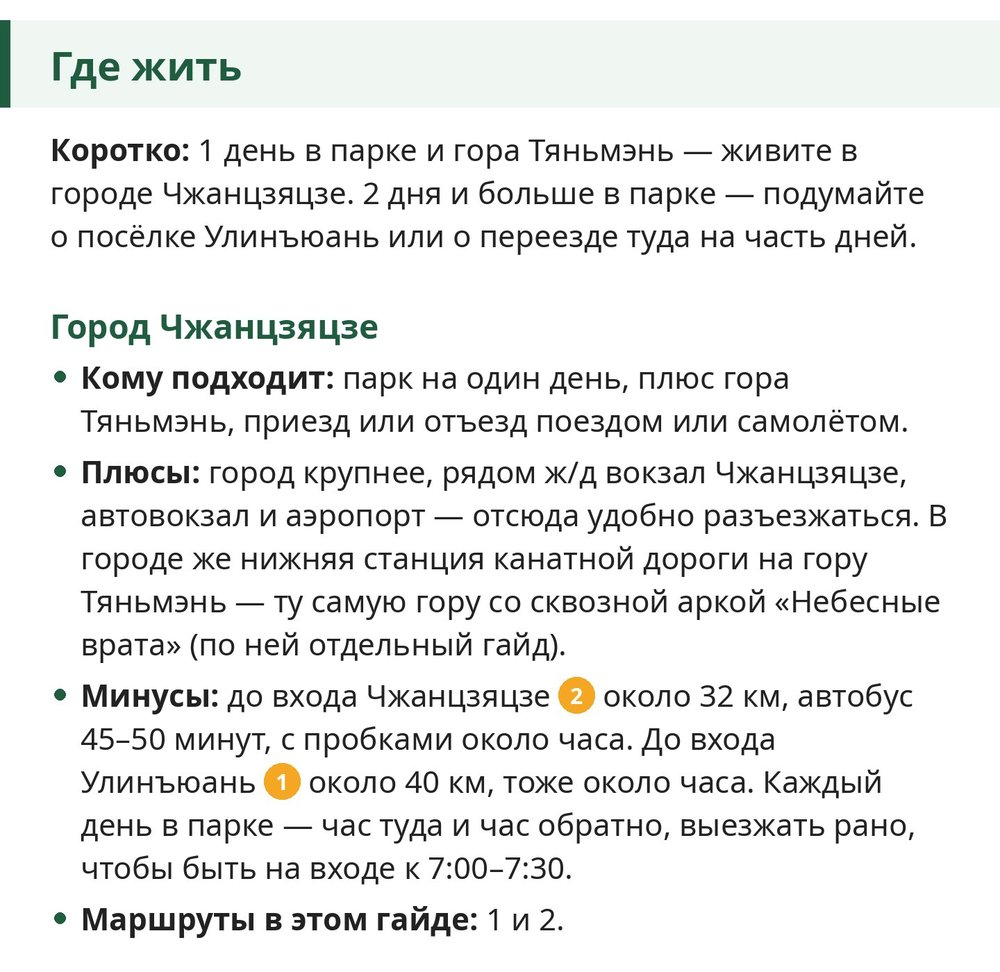
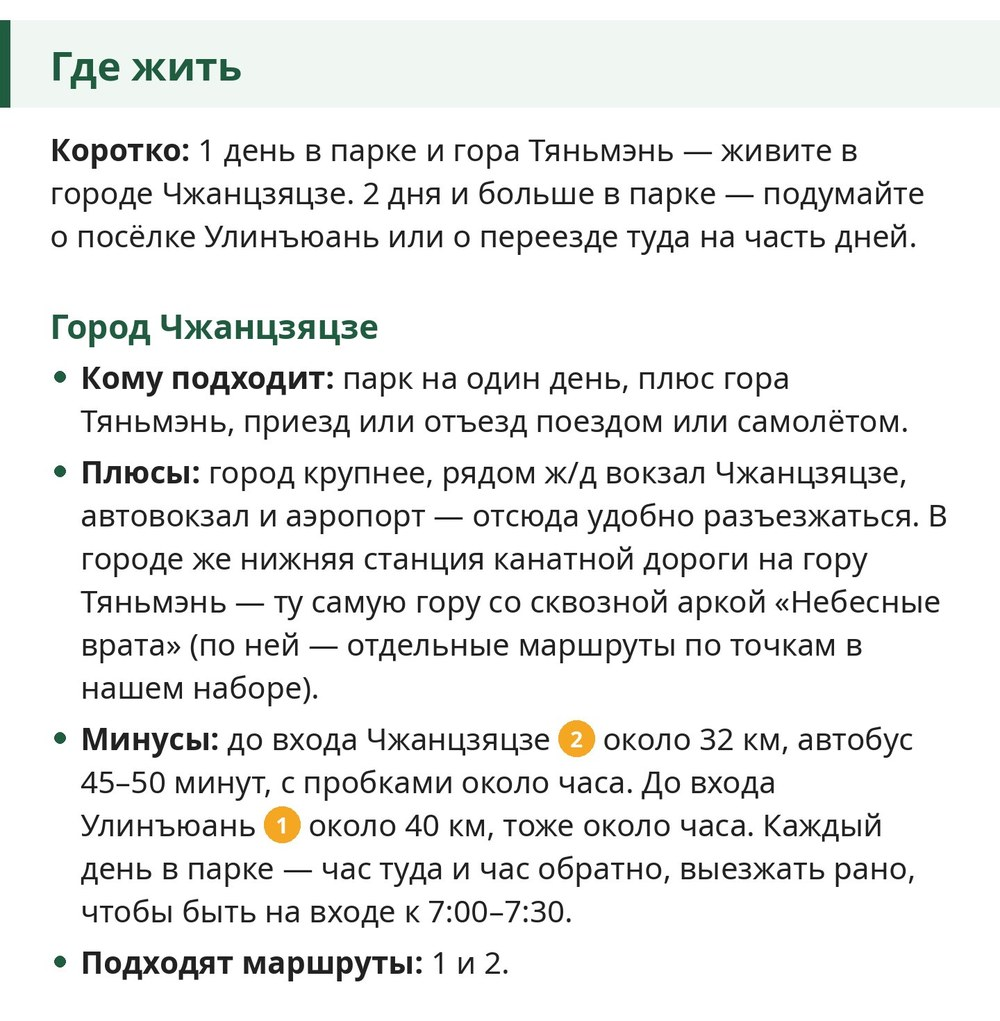
Набор: «гайды» → «маршруты по точкам» на русской странице; в «Новинке» прямо сказано, что карты переведены на русский (правка Сергея 01.11.2026); фрагмент маршрутов по парку заново из ленты

diff --git a/index.html b/index.html
@@ -4,7 +4,7 @@
     <meta charset="UTF-8">
     <meta name="viewport" content="width=device-width, initial-scale=1.0">
     <title>Актуальная карта парка Чжанцзяцзе (Горы Аватара) — PDF 2026 | 张家界地图</title>
-    <meta name="description" content="Все наши карты Чжанцзяцзе (Горы Аватара) на русском и гайды — один набор за 500 ₽: карта парка Аватар с переводом на русский, карта горы Тяньмэнь с картой вершины, карта города Чжанцзяцзе, гайды по парку Аватар и горе Тяньмэнь. Сканы настоящих бумажных карт 2026 года, PDF работает без интернета.">
+    <meta name="description" content="Все наши карты Чжанцзяцзе (Горы Аватара) на русском и маршруты по точкам — один набор за 500 ₽: карта парка Аватар с переводом на русский, карта горы Тяньмэнь с картой вершины, карта города Чжанцзяцзе, маршруты по точкам в парке Аватар и на горе Тяньмэнь. Сканы настоящих бумажных карт 2026 года, PDF работает без интернета.">
     <meta name="keywords" content="карта парка аватара, карта чжанцзяцзе, карта чжанцзяцзе на английском и китайском, карта парка аватар с переводом на русский, карта чжанцзяцзе с переводом на русский, горы аватара карта, чжанцзяцзе карта парка, схема парка аватар, туристическая карта чжанцзяцзе, zhangjiajie map, 张家界地图, wulingyuan карта, улинъюань карта, лифт байлун карта, стеклянный мост чжанцзяцзе, гора тяньмэнь карта, подробная карта парка аватара, лучшая карта чжанцзяцзе, чжанцзяцзе маршрут, горы аватара китай, национальный парк аватар, парк аватар билеты, чжанцзяцзе что посмотреть, чжанцзяцзе самостоятельно, чжанцзяцзе как добраться, карта чжанцзяцзе скачать, джанджадзе, чанджанчзе, чанзачзе, чанчзачзе">
     <link rel="canonical" href="https://kristall2002-art.github.io/avatar-park-map/">
     <link rel="alternate" hreflang="ru" href="https://kristall2002-art.github.io/avatar-park-map/">
@@ -35,7 +35,7 @@
     <!-- Open Graph -->
     <meta property="og:type" content="product">
     <meta property="og:title" content="Актуальная карта парка Чжанцзяцзе (Горы Аватара) — PDF 2026">
-    <meta property="og:description" content="Все наши карты Чжанцзяцзе на русском и гайды — один набор за 500 ₽: карта парка Аватар с переводом, карта горы Тяньмэнь с картой вершины, карта города, гайды по парку и горе Тяньмэнь. Сканы настоящих бумажных карт 2026 года, привезённых из Чжанцзяцзе.">
+    <meta property="og:description" content="Все наши карты Чжанцзяцзе на русском и маршруты по точкам — один набор за 500 ₽: карта парка Аватар с переводом, карта горы Тяньмэнь с картой вершины, карта города, маршруты по точкам в парке Аватар и на горе Тяньмэнь. Сканы настоящих бумажных карт 2026 года, привезённых из Чжанцзяцзе.">
     <meta property="og:image" content="https://kristall2002-art.github.io/avatar-park-map/img/park_preview.jpg">
     <meta property="og:url" content="https://kristall2002-art.github.io/avatar-park-map/">
     <meta property="og:locale" content="ru_RU">
@@ -59,8 +59,8 @@
     {
         "@context": "https://schema.org",
         "@type": "Product",
-        "name": "Набор «Все карты Чжанцзяцзе на русском» и гайды — 2026",
-        "description": "Все наши карты Чжанцзяцзе на русском и гайды: карта парка Аватар (Улинъюань) с переводом на русский, карта горы Тяньмэнь на русском с картой вершины, карта города Чжанцзяцзе с русскими подписями, гайд по парку Аватар — маршруты на 1 и 2 дня из Чжанцзяцзе и из Улинъюаня, гайд по горе Тяньмэнь — подъём по маршруту C, западная и восточная петли по вершине. Сканы настоящих бумажных карт 2026 года, привезённых из Чжанцзяцзе. PDF, работает без интернета.",
+        "name": "Набор «Все карты Чжанцзяцзе на русском» и маршруты по точкам — 2026",
+        "description": "Все наши карты Чжанцзяцзе на русском и маршруты по точкам: карта парка Аватар (Улинъюань) с переводом на русский, карта горы Тяньмэнь на русском с картой вершины, карта города Чжанцзяцзе с русскими подписями, маршруты по точкам в парке Аватар на 1 и 2 дня из Чжанцзяцзе и из Улинъюаня, маршруты по точкам на горе Тяньмэнь — подъём по маршруту C, западная и восточная петли по вершине. Сканы настоящих бумажных карт 2026 года, привезённых из Чжанцзяцзе. PDF, работает без интернета.",
         "image": "https://kristall2002-art.github.io/avatar-park-map/img/park_preview.jpg",
         "brand": {
             "@type": "Brand",
@@ -117,7 +117,7 @@
                 "name": "Что включает карта парка Чжанцзяцзе?",
                 "acceptedAnswer": {
                     "@type": "Answer",
-                    "text": "Набор «Все карты Чжанцзяцзе на русском»: карта парка Аватар (Улинъюань) с переводом на русский — маршруты, тропы с таймингами, автобусные остановки, лифт Байлун, канатные дороги, входы, кафе и достопримечательности, английские названия оставлены рядом; карта горы Тяньмэнь на русском с картой вершины; карта города Чжанцзяцзе с русскими подписями; гайд по парку Аватар — маршруты на 1 и 2 дня; гайд по горе Тяньмэнь — подъём по маршруту C и петли по вершине."
+                    "text": "Набор «Все карты Чжанцзяцзе на русском»: карта парка Аватар (Улинъюань) с переводом на русский — маршруты, тропы с таймингами, автобусные остановки, лифт Байлун, канатные дороги, входы, кафе и достопримечательности, английские названия оставлены рядом; карта горы Тяньмэнь на русском с картой вершины; карта города Чжанцзяцзе с русскими подписями; маршруты по точкам в парке Аватар на 1 и 2 дня; маршруты по точкам на горе Тяньмэнь — подъём по маршруту C и петли по вершине."
                 }
             },
             {
@@ -586,12 +586,12 @@
     <p class="subtitle" style="max-width:640px;margin:-16px auto 32px;padding:14px 20px;border-left:3px solid var(--accent);background:rgba(78,205,196,0.07);border-radius:8px;color:var(--text);"><strong>Это живые сканы настоящих бумажных карт</strong>, актуальных на текущий год — привезены прямо из города Чжанцзяцзе. Вся информация свежая, именно на этот сезон.</p>
 
     <div class="hero-buys">
-        <a href="#buy" class="buy-btn">Купить набор: все карты на русском и гайды за 500 ₽</a>
+        <a href="#buy" class="buy-btn">Купить набор: карты с переводом на русский и маршруты по точкам за 500 ₽</a>
     </div>
 
     <div class="promo-note" style="max-width:640px;margin:24px auto 0;padding:16px 20px;border:1px solid var(--accent);background:rgba(78,205,196,0.08);border-radius:12px;text-align:left;line-height:1.55">
-        <b>🎁 Новинка: все карты в одном наборе</b><br>
-        Вместо трёх товаров теперь один набор за 500 ₽ — все наши карты Чжанцзяцзе на русском и гайды по парку Аватар и горе Тяньмэнь.<br><br>
+        <b>🎁 Новинка: карты переведены на русский и собраны в один набор</b><br>
+        Вместо трёх товаров теперь один набор за 500 ₽. Карта парка Аватар и карта горы Тяньмэнь с картой вершины переведены на русский, на карте города Чжанцзяцзе — русские подписи. И маршруты по точкам в парке Аватар и на горе Тяньмэнь.<br><br>
         В нашем Telegram-канале идёт акция: подпишитесь, приглашайте друзей и копите скидку на набор — до 100%. Скидка применяется при покупке в Telegram-боте. Чтобы участвовать, переходите в канал:<br>
         <a href="https://t.me/avatarparkmap" style="color:var(--accent);font-weight:bold">Наш канал в Telegram</a> · <a href="akciya.html" style="color:var(--accent)">Условия акции</a> · <a href="https://max.ru/id780453702801_biz" style="color:var(--accent)">Мы в MAX</a>
     </div>
@@ -609,7 +609,7 @@
         <p style="margin:0 0 12px;"><strong>Что работает.</strong> Гора, пещера «Небесные врата» и тропы на вершине открыты. Билет стоит как прежде — 288 юаней, кассы работают с 7:30 до 16:00. В билет по маршруту C не входит эскалатор от площади до пещеры: к ней поднимаются по лестнице в 999 ступеней или на эскалаторе за доплату.</p>
         <p style="margin:0 0 12px;"><strong>Билеты берите заранее</strong> — все туристы теперь пойдут одним маршрутом. При покупке проверьте, что выбран маршрут C.</p>
         </details>
-        <p style="margin:0;color:var(--text-muted);">Карта горы Тяньмэнь на русском с картой вершины и гайд по горе Тяньмэнь — как подняться по маршруту C и пройти западную и восточную петли по вершине — входят в <a href="#buy" style="color:var(--accent);">набор всех карт на русском за 500 ₽</a>.</p>
+        <p style="margin:0;color:var(--text-muted);">Карта горы Тяньмэнь на русском с картой вершины и маршруты по точкам на горе Тяньмэнь — как подняться по маршруту C и пройти западную и восточную петли по вершине — входят в <a href="#buy" style="color:var(--accent);">набор всех карт на русском за 500 ₽</a>.</p>
     </article>
 </section>
 
@@ -671,8 +671,8 @@
             </div>
             <div class="feature-item">
                 <div class="feature-icon">🏔</div>
-                <h3>+ Тяньмэнь, город и гайды</h3>
-                <p>В набор входят карта горы Тяньмэнь (天门山) на русском с картой вершины, карта города Чжанцзяцзе с русскими подписями и гайды по парку Аватар и горе Тяньмэнь</p>
+                <h3>+ Тяньмэнь, город и маршруты по точкам</h3>
+                <p>В набор входят карта горы Тяньмэнь (天门山) на русском с картой вершины, карта города Чжанцзяцзе с русскими подписями и маршруты по точкам в парке Аватар и на горе Тяньмэнь</p>
             </div>
         </div>
     </article>
@@ -712,7 +712,7 @@
     </div>
 </section>
 
-<!-- MAP FRAGMENTS: фрагменты карт и гайдов набора за 500 ₽ (01.11.2026; до того — три товара, Сергей 16.10.2026) и фото пещеры Тяньмэнь -->
+<!-- MAP FRAGMENTS: фрагменты карт и маршрутов набора за 500 ₽ (01.11.2026; до того — три товара, Сергей 16.10.2026) и фото пещеры Тяньмэнь -->
 <section id="map-details">
     <h2>Что вы увидите на картах</h2>
     <p style="text-align:center;color:var(--text-muted);margin-bottom:8px;">Реальные фрагменты карт из PDF — так они выглядят после покупки. Нажмите на фрагмент, чтобы открыть крупнее</p>
@@ -729,8 +729,8 @@
         </a>
     </div>
 
-    <h3 class="frag-group">Гора Тяньмэнь на русском, карта города и гайды</h3>
-    <p class="frag-sub">Карта горы Тяньмэнь на русском с картой вершины, карта города Чжанцзяцзе с русскими подписями и гайды по парку Аватар и горе Тяньмэнь</p>
+    <h3 class="frag-group">Гора Тяньмэнь на русском, карта города и маршруты по точкам</h3>
+    <p class="frag-sub">Карта горы Тяньмэнь на русском с картой вершины, карта города Чжанцзяцзе с русскими подписями и маршруты по точкам в парке Аватар и на горе Тяньмэнь</p>
     <div class="fragments-grid frag-two">
         <a class="fragment-item" href="img/frag_ru_avatar.jpg" target="_blank" rel="noopener">
             <img src="img/frag_ru_avatar.jpg" alt="Фрагмент карты парка Аватар с переводом на русский — гора Аватар, Небесный мост, Юаньцзяцзе" loading="lazy">
@@ -753,8 +753,8 @@
             <div class="fragment-label">🏙 Карта города с русскими подписями: вокзал, автовокзал, канатка на Тяньмэнь и вход Mountain Gate</div>
         </a>
         <a class="fragment-item" href="img/frag_nabor_gajd.jpg" target="_blank" rel="noopener">
-            <img src="img/frag_nabor_gajd.jpg" alt="Фрагмент гайда по парку Аватар — где жить, номера точек на карте" loading="lazy">
-            <div class="fragment-label">🧭 Гайд по парку Аватар: где жить и маршруты на 1 и 2 дня — номера точек как на карте</div>
+            <img src="img/frag_nabor_gajd.jpg" alt="Фрагмент маршрутов по точкам в парке Аватар — где жить, номера точек на карте" loading="lazy">
+            <div class="fragment-label">🧭 Маршруты по точкам в парке Аватар на 1 и 2 дня и где жить — номера точек как на карте</div>
         </a>
     </div>
     <h3 class="frag-group frag-small">Пещера «Небесные врата» — сюда ведут все маршруты на гору</h3>
@@ -772,36 +772,36 @@
             <figcaption class="fragment-label">Внутри пещеры: смотровая площадка<span class="fragment-credit">Фото: xiquinhosilva, <a href="https://commons.wikimedia.org/wiki/File:Tianmen_38258-Zhangjiajie_(49047523437).jpg" target="_blank" rel="noopener">Wikimedia Commons</a>, <a href="https://creativecommons.org/licenses/by/2.0/deed.ru" target="_blank" rel="noopener">CC BY 2.0</a></span></figcaption>
         </figure>
     </div>
-    <p class="frag-buy"><a href="#buy" class="buy-btn buy-btn-alt">Купить набор: все карты на русском и гайды за 500 ₽</a></p>
+    <p class="frag-buy"><a href="#buy" class="buy-btn buy-btn-alt">Купить набор: карты с переводом на русский и маршруты по точкам за 500 ₽</a></p>
 </section>
 
 <!-- PRICING -->
 <section class="section-dark pricing" id="buy">
     <h2>Купить карты Чжанцзяцзе на русском</h2>
-    <p class="desc">Один набор — все наши карты Чжанцзяцзе на русском и гайды по парку Аватар и горе Тяньмэнь — 500 ₽</p>
+    <p class="desc">Один набор — все наши карты Чжанцзяцзе с переводом на русский и маршруты по точкам в парке Аватар и на горе Тяньмэнь — 500 ₽</p>
     <div class="offers">
         <div class="price-box offer-ru-full" id="buy-nabor">
             <span id="buy-maps3"></span><span id="buy-ru"></span><span id="buy-tm"></span>
-            <div class="offer-title">Набор «Все карты Чжанцзяцзе на русском» и гайды</div>
+            <div class="offer-title">Набор «Все карты Чжанцзяцзе на русском» и маршруты по точкам</div>
             <div>
                 <span class="price-amount">500</span>
                 <span class="price-currency"> руб.</span>
             </div>
             <div class="ru-samples">
-                <figure><a href="img/tm_1_kak_podnyatsya_sq.jpg" target="_blank" rel="noopener"><img src="img/tm_1_kak_podnyatsya_sq.jpg" alt="Образец карты горы Тяньмэнь с гайдом — как подняться по маршрутам A, B и C" width="640" height="640" loading="lazy"></a><figcaption>Как подняться: маршруты A, B, C</figcaption></figure>
-                <figure><a href="img/tm_2_skhema_sq.jpg" target="_blank" rel="noopener"><img src="img/tm_2_skhema_sq.jpg" alt="Образец карты горы Тяньмэнь с гайдом — схема подъёма" width="640" height="640" loading="lazy"></a><figcaption>Схема подъёма</figcaption></figure>
-                <figure><a href="img/tm_3_ploshchad_sq.jpg" target="_blank" rel="noopener"><img src="img/tm_3_ploshchad_sq.jpg" alt="Образец карты горы Тяньмэнь с гайдом — карта горы, площадь и лестница в 999 ступеней" width="640" height="640" loading="lazy"></a><figcaption>Карта горы</figcaption></figure>
-                <figure><a href="img/tm_4_vershina_sq.jpg" target="_blank" rel="noopener"><img src="img/tm_4_vershina_sq.jpg" alt="Образец карты горы Тяньмэнь с гайдом — карта вершины" width="640" height="640" loading="lazy"></a><figcaption>Карта вершины</figcaption></figure>
+                <figure><a href="img/tm_1_kak_podnyatsya_sq.jpg" target="_blank" rel="noopener"><img src="img/tm_1_kak_podnyatsya_sq.jpg" alt="Образец карты горы Тяньмэнь на русском — как подняться по маршрутам A, B и C" width="640" height="640" loading="lazy"></a><figcaption>Как подняться: маршруты A, B, C</figcaption></figure>
+                <figure><a href="img/tm_2_skhema_sq.jpg" target="_blank" rel="noopener"><img src="img/tm_2_skhema_sq.jpg" alt="Образец карты горы Тяньмэнь на русском — схема подъёма" width="640" height="640" loading="lazy"></a><figcaption>Схема подъёма</figcaption></figure>
+                <figure><a href="img/tm_3_ploshchad_sq.jpg" target="_blank" rel="noopener"><img src="img/tm_3_ploshchad_sq.jpg" alt="Образец карты горы Тяньмэнь на русском — карта горы, площадь и лестница в 999 ступеней" width="640" height="640" loading="lazy"></a><figcaption>Карта горы</figcaption></figure>
+                <figure><a href="img/tm_4_vershina_sq.jpg" target="_blank" rel="noopener"><img src="img/tm_4_vershina_sq.jpg" alt="Образец карты горы Тяньмэнь на русском — карта вершины" width="640" height="640" loading="lazy"></a><figcaption>Карта вершины</figcaption></figure>
             </div>
             <ul class="price-includes">
                 <li>Карта парка Аватар с переводом на русский: 71 название, английские оставлены рядом, входы и гора Аватар выделены, актуальные цены на лифт Байлун, канатные дороги и поезд</li>
                 <li>Карта горы Тяньмэнь на русском, с картой вершины</li>
                 <li>Карта города Чжанцзяцзе с русскими подписями</li>
-                <li>Гайд по парку Аватар: маршруты на 1 и 2 дня из Чжанцзяцзе и из Улинъюаня — в PDF и одной лентой для телефона</li>
-                <li>Гайд по горе Тяньмэнь: подъём по маршруту C, описание маршрутов, западная и восточная петли по вершине</li>
+                <li>Маршруты по точкам в парке Аватар: на 1 и 2 дня из Чжанцзяцзе и из Улинъюаня — в PDF и одной лентой для телефона</li>
+                <li>Маршруты по точкам на горе Тяньмэнь: подъём по маршруту C, описание маршрутов, западная и восточная петли по вершине</li>
                 <li>Формат PDF — открывается на телефоне, работает без интернета. На почту набор приходит двумя письмами</li>
             </ul>
-            <a href="https://t.me/Avatarparkmap_bot?start=buy_nabor" class="buy-btn" id="buyBtn" data-product="nabor" target="_blank" rel="noopener">Купить набор: все карты на русском и гайды за 500 ₽</a>
+            <a href="https://t.me/Avatarparkmap_bot?start=buy_nabor" class="buy-btn" id="buyBtn" data-product="nabor" target="_blank" rel="noopener">Купить набор: карты с переводом на русский и маршруты по точкам за 500 ₽</a>
         </div>
         <div style="width:100%;max-width:480px;box-sizing:border-box;padding:20px 28px;background:rgba(42,171,238,0.08);border:1px solid rgba(42,171,238,0.25);border-radius:16px;">
             <p style="font-size:15px;color:var(--text-light);margin-bottom:14px;">Не получается купить? Напишите нам — поможем!</p>
@@ -1294,7 +1294,7 @@
         <h2>Часто задаваемые вопросы о Чжанцзяцзе</h2>
         <div class="faq-item">
             <h3>Что включает карта парка Чжанцзяцзе?</h3>
-            <p>Набор «Все карты Чжанцзяцзе на русском»: карта парка Аватар (Улинъюань) с переводом на русский — маршруты, тропы с таймингами, автобусные остановки, лифт Байлун, канатные дороги, входы, кафе и достопримечательности, английские названия оставлены рядом; карта горы Тяньмэнь на русском с картой вершины; карта города Чжанцзяцзе с русскими подписями; гайд по парку Аватар — маршруты на 1 и 2 дня; гайд по горе Тяньмэнь — подъём по маршруту C и петли по вершине.</p>
+            <p>Набор «Все карты Чжанцзяцзе на русском»: карта парка Аватар (Улинъюань) с переводом на русский — маршруты, тропы с таймингами, автобусные остановки, лифт Байлун, канатные дороги, входы, кафе и достопримечательности, английские названия оставлены рядом; карта горы Тяньмэнь на русском с картой вершины; карта города Чжанцзяцзе с русскими подписями; маршруты по точкам в парке Аватар на 1 и 2 дня; маршруты по точкам на горе Тяньмэнь — подъём по маршруту C и петли по вершине.</p>
         </div>
         <div class="faq-item">
             <h3>В каком формате карта Чжанцзяцзе?</h3>
@@ -1411,16 +1411,16 @@ function apiFetch(path, opts, ms) {
     }
     return attempt();
 }
-// Товары: nabor — набор всех карт на русском и гайдов (500 ₽, с 01.11.2026 единственный на этой странице);
+// Товары: nabor — набор всех карт на русском и маршрутов по точкам (500 ₽, с 01.11.2026 единственный на этой странице);
 // прежние maps3 (199 ₽), ru (399 ₽), tm (449 ₽) — для старых ссылок.
 // Поле product уходит в /api/create-order; цену сервер берёт из своей таблицы, не отсюда.
 var BUY_PRODUCTS = {
     "nabor": {
-        "desc": "Набор: все карты Чжанцзяцзе на русском и гайды за <b>500 ₽</b>",
+        "desc": "Набор: все карты Чжанцзяцзе на русском и маршруты по точкам за <b>500 ₽</b>",
         "form": "Введите email — после оплаты на него придут два письма: в первом — парк Аватар, во втором — гора Тяньмэнь и город",
         "pay": "Перейти к оплате — 500 ₽",
-        "email": "Оплата → два письма с картами и гайдами",
-        "tgsub": "Оплата → карты и гайды в боте",
+        "email": "Оплата → два письма с картами и маршрутами",
+        "tgsub": "Оплата → карты и маршруты в боте",
         "tg": "https://t.me/Avatarparkmap_bot?start=buy_nabor",
         "max": "https://max.ru/id780453702801_bot?start=buy_nabor"
     },
@@ -1676,7 +1676,7 @@ document.addEventListener('keydown', function(e) {
         <button class="buy-modal-close" onclick="closeBuyModal()" aria-label="Закрыть">&times;</button>
         <div id="buyChoice">
             <h3>Как получить карту?</h3>
-            <p id="buyDesc">Набор: все карты Чжанцзяцзе на русском и гайды за <b>500 ₽</b></p>
+            <p id="buyDesc">Набор: все карты Чжанцзяцзе на русском и маршруты по точкам за <b>500 ₽</b></p>
             <button class="delivery-option" onclick="showBuyEmailForm()">
                 <span class="delivery-option-icon">🌐</span>
                 <span class="delivery-option-text">Купить на сайте
@@ -1703,7 +1703,7 @@ document.addEventListener('keydown', function(e) {
         </div>
         <div id="buyEmailForm" hidden>
             <h3>Оплата картой</h3>
-            <p id="buyFormDesc">Введите email — после оплаты на него придут два письма с картами и гайдами</p>
+            <p id="buyFormDesc">Введите email — после оплаты на него придут два письма с картами и маршрутами</p>
             <input type="email" id="buyEmailInput" class="buy-input" placeholder="your@email.com" autocomplete="email" />
             <button id="buyPayBtn" class="buy-pay-btn" onclick="submitBuyOrder()">Перейти к оплате — 500 ₽</button>
             <p id="buyError" class="buy-error"></p>
